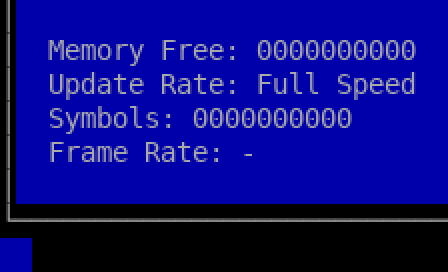
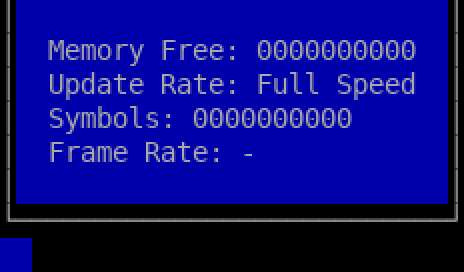
docs(drmon): fix screenshot clipping — no shadow, correct desktop detection, right-sized imgs
render_ansi.py:
- Hard-code DESKTOP_BG = ANSI blue (0,0,170) — sampling from a single cell
  fails when the window sits at row 1 col 0 (cell is window-bg, not desktop).
- Strip drop-shadow strips: trailing rows/cols of all-black+space on the right
  and bottom edges of the crop bounding box.
- Print display_w = min(img.width // scale, 700) so callers get the right width.

Manual: update every <img width="…"> to the computed 1× display width; small
windows (register=224px, breakpoint=168px, symbol=208px, …) no longer span
the full page.

diff --git a/devsys/tools/drmon/linux/render_ansi.py b/devsys/tools/drmon/linux/render_ansi.py
@@ -4,10 +4,16 @@
 Usage: render_ansi.py input.ansi output.png [scale]
   scale: pixel multiplier (default 2 for crisp 2x rendering)
 
-Trims to the window bounding box by detecting the desktop background colour
-from the top-left cell of the content area (row 1, col 0), then cropping to
-the smallest rectangle of non-desktop cells in rows 1..(n-2), skipping the
-menu bar (row 0) and status bar (last row).
+Returns (prints) the recommended HTML display width on stdout alongside the
+normal progress line so callers can embed correct <img width="…"> tags.
+
+Crop strategy:
+  - drmon's desktop is always ANSI blue (0,0,170); hard-coded — sampling from a
+    single cell fails when the window sits at row 1 col 0 (cells are window-bg).
+  - Crop bounding box = smallest rectangle of non-desktop cells in rows 1..n-2,
+    skipping the menu bar (row 0) and status bar (last row).
+  - Drop shadow (1-2 cells of all-black+space on the right and bottom edges of
+    the crop) is stripped after the initial bounding-box pass.
 """
 import sys
 from PIL import Image, ImageDraw, ImageFont
@@ -15,21 +21,18 @@ from PIL import Image, ImageDraw, ImageFont
 FONT_PATH = "/usr/share/fonts/truetype/dejavu/DejaVuSansMono.ttf"
 FONT_SIZE = 14
 
-# Standard 16-colour ANSI palette (CGA-compatible)
 PALETTE = [
     (0, 0, 0),      (170, 0, 0),    (0, 170, 0),    (170, 170, 0),
     (0, 0, 170),    (170, 0, 170),  (0, 170, 170),  (170, 170, 170),
     (85, 85, 85),   (255, 85, 85),  (85, 255, 85),  (255, 255, 85),
     (85, 85, 255),  (255, 85, 255), (85, 255, 255), (255, 255, 255),
 ]
-DEFAULT_FG = PALETTE[7]
-DEFAULT_BG = PALETTE[0]
+DEFAULT_FG  = PALETTE[7]
+DEFAULT_BG  = PALETTE[0]           # black  — window/title background
+DESKTOP_BG  = PALETTE[4]           # blue   — drmon desktop, always this colour
 
 
 def parse_ansi(text):
-    """Parse ANSI-escaped terminal text into a grid.
-    Returns list of rows; each row is a list of (char, fg_rgb, bg_rgb).
-    """
     rows, row = [], []
     fg, bg, bold = DEFAULT_FG, DEFAULT_BG, False
     i = 0
@@ -85,6 +88,11 @@ def parse_ansi(text):
     return rows
 
 
+def _is_shadow_strip(cells):
+    """True if every cell is black+space — the drmon drop-shadow pattern."""
+    return all(bg == DEFAULT_BG and ch == ' ' for ch, _, bg in cells)
+
+
 def render(ansi_file, out_file, scale=2):
     with open(ansi_file, 'r', encoding='utf-8', errors='replace') as f:
         text = f.read()
@@ -99,18 +107,15 @@ def render(ansi_file, out_file, scale=2):
     cell_h = ascent + descent
     cell_w = round(font.getlength("M"))
 
-    # Normalise all rows to the same column count
     n_cols = max((len(r) for r in rows), default=80)
-    desktop_bg = rows[1][0][2] if len(rows) > 1 and rows[1] else DEFAULT_BG
-    padded = [list(r) + [(' ', DEFAULT_FG, desktop_bg)] * (n_cols - len(r))
+    padded = [list(r) + [(' ', DEFAULT_FG, DESKTOP_BG)] * (n_cols - len(r))
               for r in rows]
 
-    # Find the bounding box of non-desktop cells, ignoring menu bar (row 0)
-    # and status bar (last row) so we crop to just the open window.
+    # --- bounding box of non-desktop cells (skip menu bar row 0 + status bar) ---
     r1 = r2 = c1 = c2 = None
     for ri in range(1, len(padded) - 1):
         for ci in range(n_cols):
-            if padded[ri][ci][2] != desktop_bg:
+            if padded[ri][ci][2] != DESKTOP_BG:
                 if r1 is None:
                     r1 = ri
                 r2 = ri
@@ -120,14 +125,21 @@ def render(ansi_file, out_file, scale=2):
                     c2 = ci
 
     if r1 is None:
-        # No window open — fall back to full content area
         r1, r2, c1, c2 = 1, len(padded) - 2, 0, n_cols - 1
 
+    # --- strip drop shadow (all-black+space strips on right and bottom edges) ---
+    while r2 > r1 and _is_shadow_strip(
+            [padded[r2][ci] for ci in range(c1, c2 + 1)]):
+        r2 -= 1
+    while c2 > c1 and _is_shadow_strip(
+            [padded[ri][c2] for ri in range(r1, r2 + 1)]):
+        c2 -= 1
+
     crop = [padded[ri][c1:c2 + 1] for ri in range(r1, r2 + 1)]
-    n_rows = len(crop)
+    n_rows_out = len(crop)
     n_cols_out = c2 - c1 + 1
 
-    img = Image.new("RGB", (n_cols_out * cell_w, n_rows * cell_h), desktop_bg)
+    img = Image.new("RGB", (n_cols_out * cell_w, n_rows_out * cell_h), DESKTOP_BG)
     draw = ImageDraw.Draw(img)
 
     for ri, row in enumerate(crop):
@@ -136,15 +148,18 @@ def render(ansi_file, out_file, scale=2):
             y = ri * cell_h
             draw.rectangle([x, y, x + cell_w, y + cell_h], fill=bg)
             if ch != ' ':
-                # default anchor "la" (left-ascender): top of the em-square at y
                 draw.text((x, y), ch, font=font, fill=fg)
 
     if scale != 1:
         img = img.resize((img.width * scale, img.height * scale), Image.NEAREST)
 
     img.save(out_file)
-    print(f"  {ansi_file} → {out_file}  ({n_cols_out}×{n_rows} cells, "
-          f"{img.width}×{img.height}px)")
+
+    display_w = min(img.width // scale, 700)
+    print(f"  {ansi_file} → {out_file}  "
+          f"({n_cols_out}×{n_rows_out} cells, {img.width}×{img.height}px, "
+          f"display_w={display_w})")
+    return display_w
 
 
 if __name__ == '__main__':

diff --git a/devsys/tools/drmon/docs/drmon-manual.md b/devsys/tools/drmon/docs/drmon-manual.md
@@ -62,7 +62,7 @@ global keys are in the [Key reference](#key-reference).
 Examine memory as bytes, words, long words, ASCII, or disassembled code. Navigate with the
 arrows / PgUp / PgDn. *(values read as zero until a backend is wired)*
 
-<img src="img/memory.png" width="700">
+<img src="img/memory.png" width="352">
 
 | Key | Action | | Key | Action |
 |-----|--------|---|-----|--------|
@@ -78,12 +78,12 @@ View and set the current 65816 registers (A, X, Y, P/flags, D, DB, PB, SP, PC); 
 individually. Click a register to open an Expression window prompting for a new value.
 *(live values need a backend)*
 
-<img src="img/register.png" width="700">
+<img src="img/register.png" width="224">
 
 ### Breakpoint — `Alt+B` (single)
 List and manage breakpoints.
 
-<img src="img/breakpoint.png" width="700">
+<img src="img/breakpoint.png" width="168">
 
 | Key | Action |
 |-----|--------|
@@ -98,7 +98,7 @@ List and manage breakpoints.
 ### Watch — `Alt+W`
 Monitor expressions; each row shows `value : expression`, updated every frame.
 
-<img src="img/watch.png" width="700">
+<img src="img/watch.png" width="408">
 
 | Key | Action |
 |-----|--------|
@@ -109,7 +109,7 @@ Monitor expressions; each row shows `value : expression`, updated every frame.
 ### Symbol — `Alt+S` (single)
 Create, delete, and load symbols.
 
-<img src="img/symbol.png" width="700">
+<img src="img/symbol.png" width="208">
 
 | Key | Action |
 |-----|--------|
@@ -125,19 +125,19 @@ A calculator for symbols and expressions; results show in **hex, decimal, and bi
 first matching symbol. See [Expression language](#expression-language). No menu; results can be
 copied and pasted into other input fields.
 
-<img src="img/expression.png" width="700">
+<img src="img/expression.png" width="480">
 
 ### Command — `Alt+K` (single)
 Type [console commands](#console-command-language); responses print here. More powerful than
 keyboard macros, with scripting (`.scr`). **↑/↓** walk the command history.
 
-<img src="img/command.png" width="700">
+<img src="img/command.png" width="616">
 
 ### Source — `Alt+L` (single)
 Source-level debugging: load a `.sld` file (`Ctrl+L`) to view the source the code was assembled
 from and set breakpoints by line.
 
-<img src="img/source.png" width="700">
+<img src="img/source.png" width="624">
 
 | Key | Action |
 |-----|--------|
@@ -152,7 +152,7 @@ from and set breakpoints by line.
 ### Text View — `Alt+T`
 A generic text-file viewer. Arrows move the cursor; PgUp/PgDn page.
 
-<img src="img/textview.png" width="700">
+<img src="img/textview.png" width="624">
 
 | Key | Action |
 |-----|--------|
@@ -165,22 +165,22 @@ A generic text-file viewer. Arrows move the cursor; PgUp/PgDn page.
 Read-only output the *target program* prints via the dev-package print routines. `Ctrl+C` clears
 it. *(empty until a backend is wired)*
 
-<img src="img/console.png" width="700">
+<img src="img/console.png" width="320">
 
 ### ASCII chart — `Alt+Y`
 A reference table of character codes (decimal / hex / the CP437 glyph).
 
-<img src="img/ascii.png" width="700">
+<img src="img/ascii.png" width="416">
 
 ### Project Info — `Alt+I` (single)
 Shows free memory and symbol counts.
 
-<img src="img/projectinfo.png" width="700">
+<img src="img/projectinfo.png" width="232">
 
 ### About — `Alt+A`
 Shows version and credits.
 
-<img src="img/about.png" width="700">
+<img src="img/about.png" width="424">
 
 ### Help — `F1`
 The built-in `snesmon.hlp` key card, shown in a Text View window.
